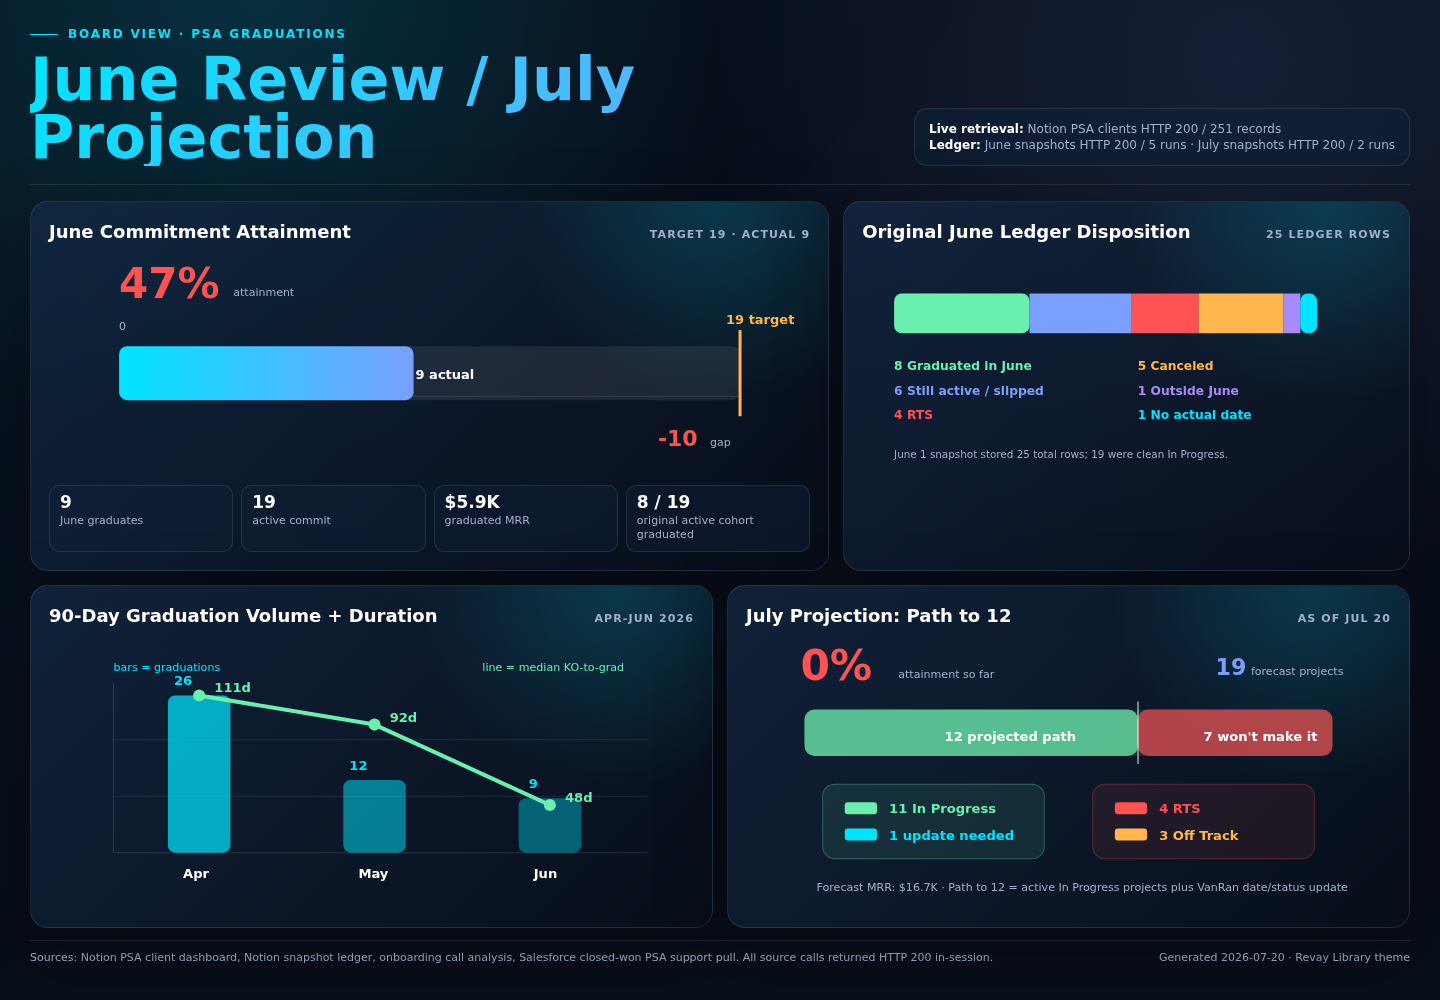
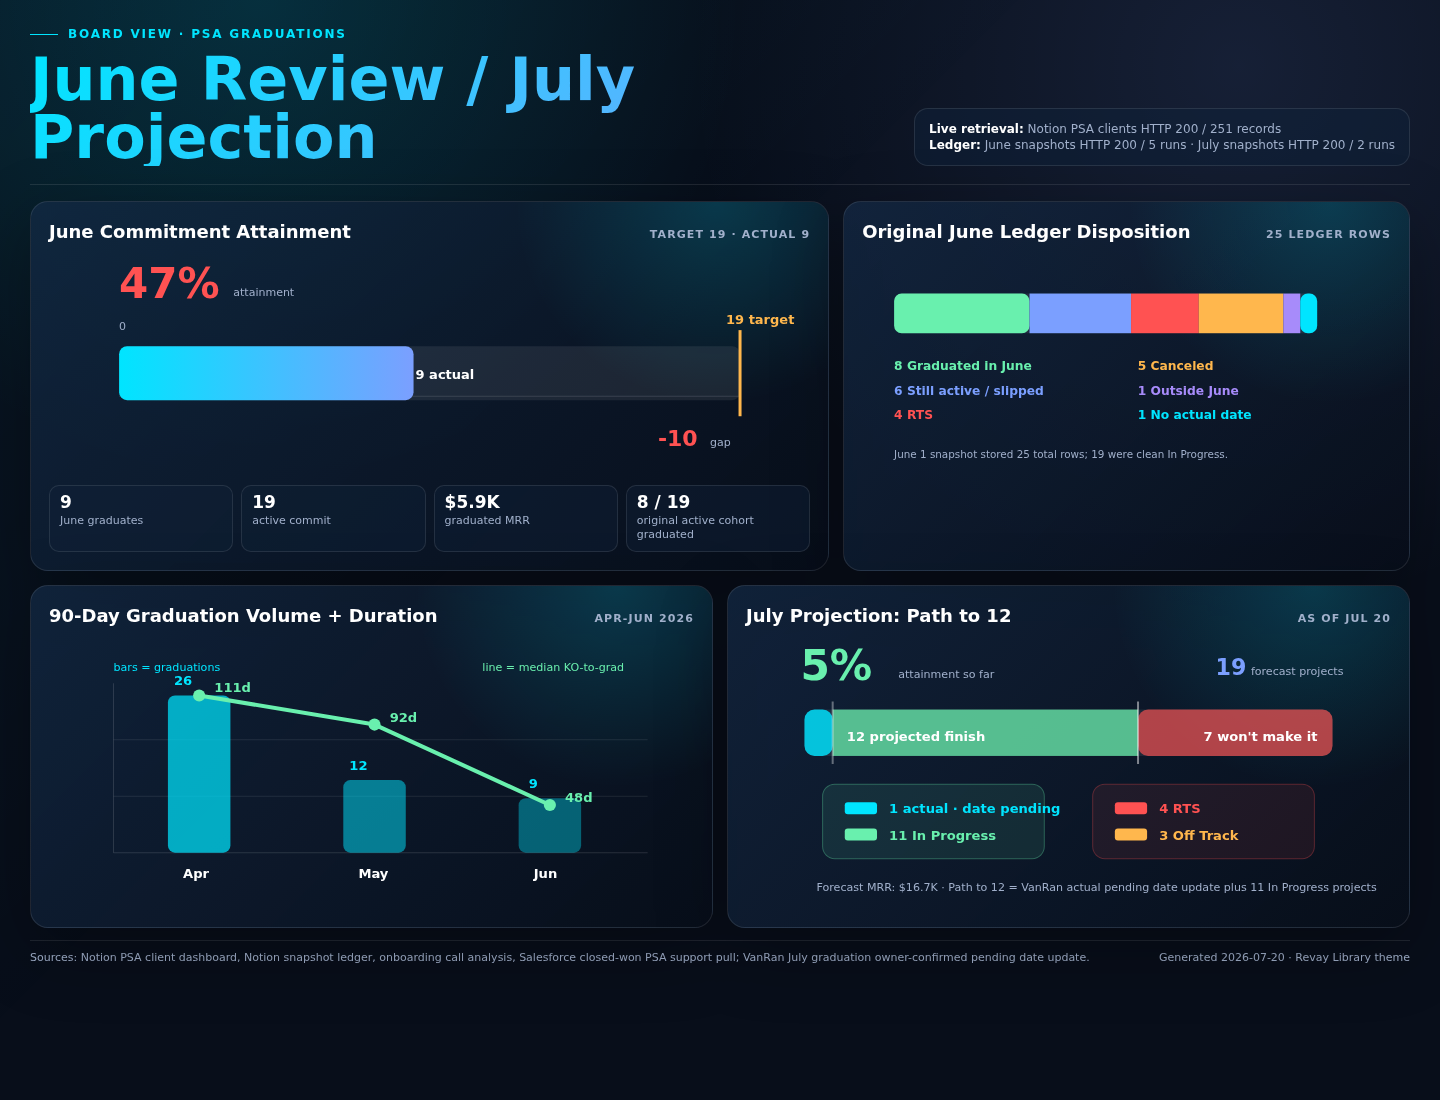
Update PSA July projection with VanRan graduation

diff --git a/psa-june-graduation-board-onepager-2026-07-20.html b/psa-june-graduation-board-onepager-2026-07-20.html
@@ -306,24 +306,26 @@
             <h2>July Projection: Path to 12</h2>
             <div class="micro">As of Jul 20</div>
           </div>
-          <svg viewBox="0 0 640 270" role="img" aria-label="July projection bridge showing 19 total forecast projects, 12 projected path, and 7 not expected">
-            <text x="54" y="43" class="big red">0%</text>
+          <svg viewBox="0 0 640 270" role="img" aria-label="July projection bridge showing 19 total forecast projects, 1 actual pending date update, 11 in progress, and 7 not expected">
+            <text x="54" y="43" class="big green">5%</text>
             <text x="151" y="41" class="label">attainment so far</text>
             <text x="466" y="38" class="medium blue">19</text>
             <text x="501" y="38" class="label">forecast projects</text>
 
             <rect x="58" y="72" width="524" height="46" rx="10" class="bar-bg"/>
-            <rect x="58" y="72" width="331" height="46" rx="10" fill="rgba(105,240,174,.75)"/>
+            <rect x="58" y="72" width="28" height="46" rx="10" fill="rgba(0,229,255,.82)"/>
+            <rect x="86" y="72" width="303" height="46" fill="rgba(105,240,174,.75)"/>
             <rect x="389" y="72" width="193" height="46" rx="10" fill="rgba(255,82,82,.66)"/>
+            <line x1="86" y1="64" x2="86" y2="126" stroke="rgba(255,255,255,.36)" stroke-width="2"/>
             <line x1="389" y1="64" x2="389" y2="126" stroke="rgba(255,255,255,.48)" stroke-width="2"/>
-            <text x="197" y="103" class="label-strong">12 projected path</text>
+            <text x="100" y="103" class="label-strong">12 projected finish</text>
             <text x="454" y="103" class="label-strong">7 won't make it</text>
 
             <rect x="76" y="146" width="220" height="74" rx="12" fill="rgba(105,240,174,.10)" stroke="rgba(105,240,174,.32)"/>
-            <rect x="98" y="164" width="32" height="12" rx="3" fill="var(--green)"/>
-            <text x="142" y="175" class="label-strong green">11 In Progress</text>
-            <rect x="98" y="190" width="32" height="12" rx="3" fill="var(--cyan)"/>
-            <text x="142" y="201" class="label-strong cyan">1 update needed</text>
+            <rect x="98" y="164" width="32" height="12" rx="3" fill="var(--cyan)"/>
+            <text x="142" y="175" class="label-strong cyan">1 actual · date pending</text>
+            <rect x="98" y="190" width="32" height="12" rx="3" fill="var(--green)"/>
+            <text x="142" y="201" class="label-strong green">11 In Progress</text>
 
             <rect x="344" y="146" width="220" height="74" rx="12" fill="rgba(255,82,82,.09)" stroke="rgba(255,82,82,.30)"/>
             <rect x="366" y="164" width="32" height="12" rx="3" fill="var(--red)"/>
@@ -331,14 +333,14 @@
             <rect x="366" y="190" width="32" height="12" rx="3" fill="var(--amber)"/>
             <text x="410" y="201" class="label-strong amber">3 Off Track</text>
 
-            <text x="70" y="252" class="label">Forecast MRR: $16.7K · Path to 12 = active In Progress projects plus VanRan date/status update</text>
+            <text x="70" y="252" class="label">Forecast MRR: $16.7K · Path to 12 = VanRan actual pending date update plus 11 In Progress projects</text>
           </svg>
         </div>
       </article>
     </section>
 
     <footer>
-      <div>Sources: Notion PSA client dashboard, Notion snapshot ledger, onboarding call analysis, Salesforce closed-won PSA support pull. All source calls returned HTTP 200 in-session.</div>
+      <div>Sources: Notion PSA client dashboard, Notion snapshot ledger, onboarding call analysis, Salesforce closed-won PSA support pull; VanRan July graduation owner-confirmed pending date update.</div>
       <div>Generated 2026-07-20 · Revay Library theme</div>
     </footer>
   </main>
